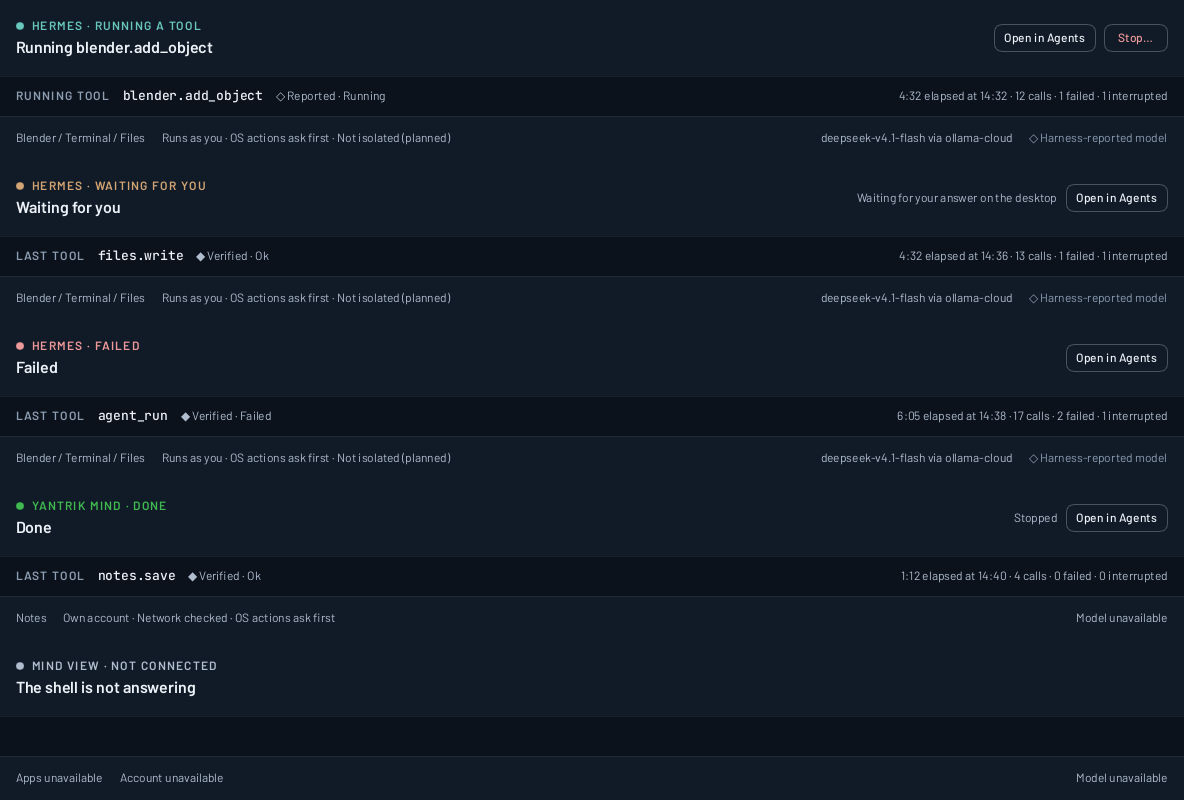
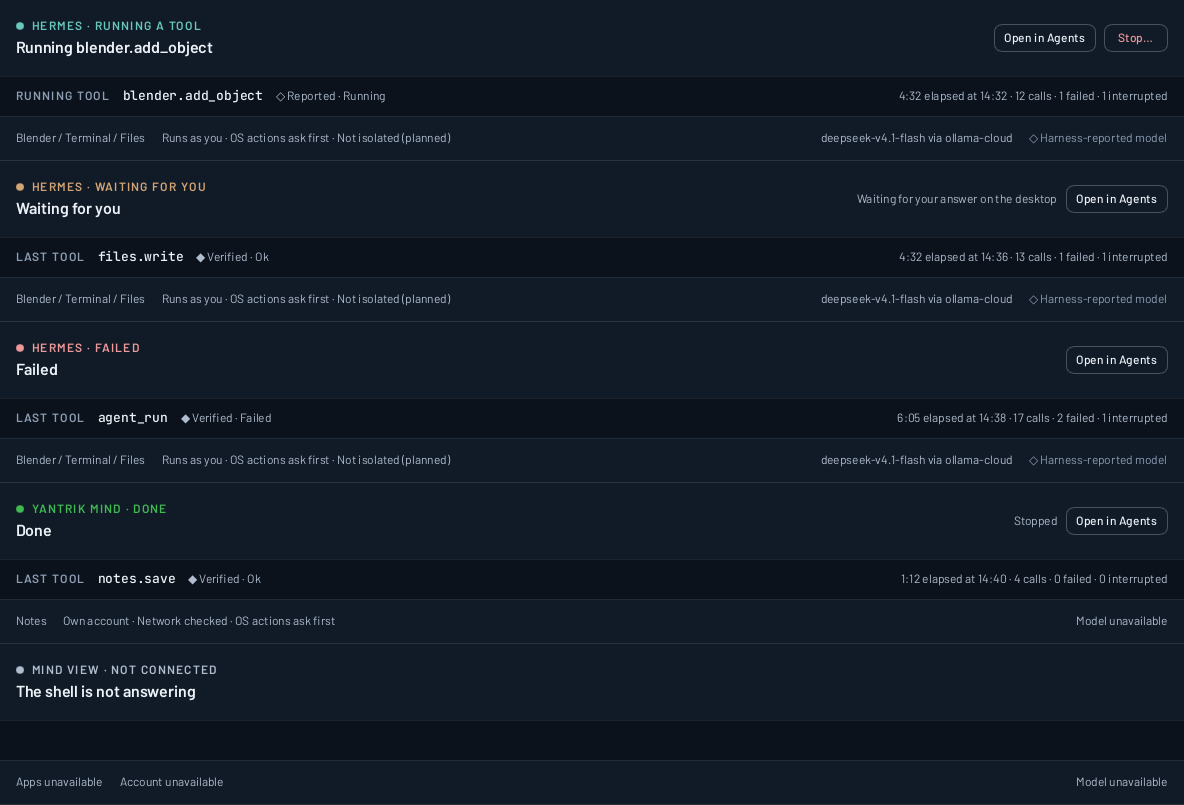
Delta review fixes: pinned labwc fetch, note timer, app id rule, cleanup
- The placement check unpacks exactly what trixie.lock names (file + sha256, https only);
  --update-lock is the one step that trusts the mirror, and its diff is what is reviewed.
- run.sh: stray NUL byte removed; cleanup kills only the desk found by its own runtime dir.
- The Agents-screen note lets go after 6 s (one-shot, re-armed by each press), so it can no
  longer hide "Waiting for your answer" for good.
- The rule matches app id yantrik-mind-desk as well as the title; the desk sets it (a platform
  is chosen first, as Slint takes the id only from one that exists). Measured on labwc 0.8.3:
  a wrong id fails the check, the right one passes at every size.
- Tests: 50 in the desk (rule identifier, app id set, note timer incl. re-arm, lock shape).
- Collage and still regenerated from the one-bar preview run.

diff --git a/tests/mind-desk-placement/fetch-trixie.py b/tests/mind-desk-placement/fetch-trixie.py
@@ -1,19 +1,27 @@
 #!/usr/bin/env python3
 """Unpack Debian 13 (trixie) labwc, grim and wlr-randr, with everything they need, into a prefix.
 
-The Mind desk's two bars are placed by labwc window rules (config/labwc-mind/rc.xml), and what a
-rule does depends on the labwc that reads it. The OS runs Debian 13's labwc 0.8.x, so the placement
+The Mind desk's bar is placed by a labwc window rule (config/labwc-mind/rc.xml), and what a rule
+does depends on the labwc that reads it. The OS runs Debian 13's labwc 0.8.x, so the placement
 check (run.sh) runs that one, not whatever a build machine happens to have. A build machine without
 root cannot install it, and its libc is not Debian 13's, so this unpacks the packages (no install)
 and run.sh starts labwc through the unpacked loader with the unpacked libraries.
 
-    fetch-trixie.py PREFIX [package ...]
+    fetch-trixie.py PREFIX                 unpack exactly what trixie.lock names
+    fetch-trixie.py --update-lock          rewrite trixie.lock from the mirror, for a reviewer to read
 
-It resolves `Depends` (first alternative, virtual packages through `Provides`) from the Debian
-mirror's package list, downloads each .deb, checks its sha256 against that list, and unpacks it
-with `dpkg -x`. Nothing outside PREFIX is touched. Packages that only matter on real hardware (the
-GPU drivers) are not followed: the check runs labwc on wlroots' headless backend with the pixman
-renderer.
+What is run is what a reviewer read. `trixie.lock`, committed beside this script, names every
+package by its file and sha256; the default mode downloads exactly those files over https and
+refuses any whose sha256 differs, so a mirror, a proxy or a network path cannot change what runs
+without changing a file in git. Nothing is resolved from an index when it unpacks.
+
+`--update-lock` is the only step that trusts the mirror's index. It reads Packages.xz over https,
+resolves `Depends` (first alternative, virtual packages through `Provides`), and writes the lock.
+Its diff is the thing to review. A package the mirror has dropped (a point release replaces the
+files) is a failed download, and the answer is to update the lock and read the diff.
+
+Packages that only matter on real hardware (the GPU drivers) are not followed: the check runs
+labwc on wlroots' headless backend with the pixman renderer. Nothing outside PREFIX is touched.
 """
 
 import hashlib
@@ -24,20 +32,25 @@ import subprocess
 import sys
 import urllib.request
 
-MIRROR = "http://deb.debian.org/debian"
+MIRROR = "https://deb.debian.org/debian"
 SUITE = "trixie"
+LOCK = os.path.join(os.path.dirname(os.path.abspath(__file__)), "trixie.lock")
 WANTED = ["labwc", "grim", "wlr-randr", "xkb-data", "fonts-dejavu-core"]
 # Not followed: real hardware's drivers and what only they need.
 SKIP = re.compile(r"^(libgl1-mesa-dri|libegl-mesa0|mesa-.*|libllvm.*|libgallium.*|libglx-mesa0|xserver-.*|libglapi-mesa)$")
 
 
+def fetch(url):
+    if not url.startswith("https://"):
+        sys.exit(f"refusing a download that is not https: {url}")
+    return urllib.request.urlopen(url, timeout=120).read()
+
+
 def index():
-    url = f"{MIRROR}/dists/{SUITE}/main/binary-amd64/Packages.xz"
-    raw = lzma.decompress(urllib.request.urlopen(url).read()).decode("utf-8", "replace")
+    raw = lzma.decompress(fetch(f"{MIRROR}/dists/{SUITE}/main/binary-amd64/Packages.xz")).decode("utf-8", "replace")
     packages = {}
     for block in raw.split("\n\n"):
-        fields = {}
-        key = None
+        fields, key = {}, None
         for line in block.split("\n"):
             if line.startswith((" ", "\t")) and key:
                 fields[key] += "\n" + line
@@ -67,31 +80,51 @@ def closure(packages, provides, roots):
                 continue
         seen[name] = packages[name]
         for dep in packages[name].get("Depends", "").split(","):
-            dep = dep.strip()
-            if not dep:
-                continue
-            first = dep.split("|")[0].strip()
+            first = dep.strip().split("|")[0].strip()
             first = re.sub(r"\s*\(.*?\)", "", first).split(":")[0].strip()
-            todo.append(first)
+            if first:
+                todo.append(first)
     return seen
 
 
-def main():
-    prefix = os.path.abspath(sys.argv[1])
-    extra = sys.argv[2:]
-    os.makedirs(prefix + "/debs", exist_ok=True)
+def update_lock():
     packages, provides = index()
-    chosen = closure(packages, provides, WANTED + extra)
-    print(f"{len(chosen)} packages", file=sys.stderr)
-    for name, f in sorted(chosen.items()):
-        deb = f"{prefix}/debs/{os.path.basename(f['Filename'])}"
-        if not os.path.exists(deb):
-            data = urllib.request.urlopen(f"{MIRROR}/{f['Filename']}").read()
-            if hashlib.sha256(data).hexdigest() != f["SHA256"]:
-                sys.exit(f"{name}: sha256 does not match the package list")
+    chosen = closure(packages, provides, WANTED)
+    with open(LOCK, "w", encoding="utf-8", newline="\n") as out:
+        out.write(f"# {SUITE} packages for tests/mind-desk-placement, by file and sha256. Written by\n")
+        out.write("# `fetch-trixie.py --update-lock`; its diff is what a reviewer reads. name filename sha256\n")
+        for name, f in sorted(chosen.items()):
+            out.write(f"{name} {f['Filename']} {f['SHA256']}\n")
+    print(f"{len(chosen)} packages written to {LOCK}; labwc {chosen['labwc']['Version']}", file=sys.stderr)
+
+
+def unpack(prefix):
+    entries = []
+    for line in open(LOCK, encoding="utf-8"):
+        if line.strip() and not line.startswith("#"):
+            name, filename, sha256 = line.split()
+            if not re.fullmatch(r"[0-9a-f]{64}", sha256) or ".." in filename or filename.startswith("/"):
+                sys.exit(f"{LOCK}: a line that is not a package: {line!r}")
+            entries.append((name, filename, sha256))
+    os.makedirs(prefix + "/debs", exist_ok=True)
+    for name, filename, sha256 in entries:
+        deb = f"{prefix}/debs/{os.path.basename(filename)}"
+        if not (os.path.exists(deb) and hashlib.sha256(open(deb, "rb").read()).hexdigest() == sha256):
+            data = fetch(f"{MIRROR}/{filename}")
+            if hashlib.sha256(data).hexdigest() != sha256:
+                sys.exit(f"{name}: what the mirror sent is not what trixie.lock names (sha256 differs); not unpacked")
             open(deb, "wb").write(data)
         subprocess.run(["dpkg", "-x", deb, prefix + "/root"], check=True)
-    print(f"labwc {chosen['labwc']['Version']}", file=sys.stderr)
+    print(f"{len(entries)} packages unpacked", file=sys.stderr)
+
+
+def main():
+    if sys.argv[1:] == ["--update-lock"]:
+        update_lock()
+    elif len(sys.argv) == 2 and not sys.argv[1].startswith("-"):
+        unpack(os.path.abspath(sys.argv[1]))
+    else:
+        sys.exit(__doc__)
 
 
 if __name__ == "__main__":

diff --git a/apps/mind-desk/src/tests/compositor.rs b/apps/mind-desk/src/tests/compositor.rs
@@ -4,7 +4,7 @@
 //! These read the file. Where labwc really puts the bar is not something a file can say, and is
 //! measured on pixels by `tests/mind-desk-placement/run.sh` against the labwc the OS runs.
 
-use crate::metrics::{BAR_HEIGHT, MARGIN_TOP, OVERLAP, TITLE};
+use crate::metrics::{APP_ID, BAR_HEIGHT, MARGIN_TOP, OVERLAP, TITLE};
 
 const RC: &str = include_str!("../../../../config/labwc-mind/rc.xml");
 
@@ -42,6 +42,8 @@ fn the_rule() -> String {
     let all = rules(&config());
     let mine: Vec<&String> = all.iter().filter(|r| attribute(r, "title").as_deref() == Some(TITLE)).collect();
     assert_eq!(mine.len(), 1, "one rule for the bar");
+    // A window that wants the bar's place has to set the app id as well as the title.
+    assert_eq!(attribute(mine[0], "identifier").as_deref(), Some(APP_ID), "matched by app id too");
     mine[0].clone()
 }
 
@@ -120,6 +122,10 @@ fn the_title_the_rule_matches_is_the_one_the_window_sets() {
     let ui = include_str!("../../ui/app.slint");
     assert!(ui.contains(&format!(r#"title: "{TITLE}";"#)), "ui/app.slint");
     assert_eq!(TITLE, "Yantrik Mind Desk");
+    // And the app id beside it is set before the window is made.
+    let lib = include_str!("../lib.rs");
+    assert!(lib.contains("slint::set_xdg_app_id(metrics::APP_ID)"), "the desk sets its app id");
+    assert_eq!(APP_ID, "yantrik-mind-desk");
     // And the rule is not the title of a second window that no longer exists.
     assert!(!RC.contains("Yantrik Mind Desk Top") && !RC.contains("Yantrik Mind Desk Bottom"));
 }
@@ -143,4 +149,21 @@ fn the_placement_check_is_in_the_tree_and_asks_for_the_bar_where_it_belongs() {
     assert!(run.contains("after-restart"), "and after the desk is started again");
     let measure = include_str!("../../../../tests/mind-desk-placement/measure.py");
     assert!(measure.contains("rows 0.."), "the bar is measured from row 0");
+}
+
+/// What the check runs is what was read: every package is named by file and sha256 in the lock,
+/// and the fetch is https only.
+#[test]
+fn the_labwc_the_check_runs_is_named_by_hash_and_fetched_over_https() {
+    let lock = include_str!("../../../../tests/mind-desk-placement/trixie.lock");
+    let lines: Vec<_> = lock.lines().filter(|l| !l.is_empty() && !l.starts_with('#')).collect();
+    assert!(lines.iter().any(|l| l.starts_with("labwc ")), "labwc is in the lock");
+    for l in &lines {
+        let f: Vec<_> = l.split(' ').collect();
+        assert_eq!(f.len(), 3, "{l}");
+        assert!(f[2].len() == 64 && f[2].bytes().all(|b| b.is_ascii_hexdigit()), "{l}");
+        assert!(!f[1].contains("..") && !f[1].starts_with('/'), "{l}");
+    }
+    let fetch = include_str!("../../../../tests/mind-desk-placement/fetch-trixie.py");
+    assert!(fetch.contains("https://deb.debian.org") && !fetch.contains("http://"), "https only");
 }

diff --git a/apps/mind-desk/src/tests/stopping.rs b/apps/mind-desk/src/tests/stopping.rs
@@ -186,3 +186,44 @@ fn the_agents_screen_being_held_for_a_card_is_said_while_a_stop_is_asked() {
     app.run(Command::Heard(Ok(with_stop(2, MindState::Idle, Some(StopStatus::Stopped)))));
     assert_eq!(app.ui(|ui| ui.get_stop_note()), "Stopped");
 }
+
+/// A line about the Agents screen is about the moment it was pressed. Nothing in a snapshot says a
+/// card that held the screen has been answered, so the line is let go on its own, after a few
+/// seconds, whatever the snapshots say, and "Waiting for your answer" is not hidden behind it
+/// for good.
+#[test]
+fn a_line_about_the_agents_screen_does_not_outstay_its_moment() {
+    use std::time::Duration;
+    let (app, shell) = start(working());
+    app.run_jobs();
+    shell.show_answers(Err(ServiceError::Refused {
+        code: -32000,
+        sentence: "`mind_desk_open_agents` was not run: an approval card is waiting for the person at this machine".into(),
+    }));
+    app.run(Command::AgentsAsked);
+    app.run_jobs();
+    assert_eq!(app.ui(|ui| ui.get_stop_note()), "An approval card is waiting on your desktop");
+    // The card is answered, and the stop's standing does not change: the snapshot is the same.
+    app.run(Command::Heard(Ok(snapshot(1, Some(hermes(MindState::RunningTool))))));
+    assert_eq!(app.ui(|ui| ui.get_stop_note()), "An approval card is waiting on your desktop", "not yet");
+    app.advance(Duration::from_secs(5));
+    assert_eq!(app.ui(|ui| ui.get_stop_note()), "An approval card is waiting on your desktop", "five seconds in");
+    app.advance(Duration::from_secs(2));
+    assert_eq!(app.ui(|ui| ui.get_stop_note()), "", "gone after six");
+
+    // A second press while the first line is up re-arms the timer: the first press's moment
+    // cannot clear the second's line early.
+    shell.show_answers(Err(ServiceError::Refused { code: -32000, sentence: "at most once every ten seconds".into() }));
+    shell.show_answers(Err(ServiceError::Refused { code: -32000, sentence: "at most once every ten seconds".into() }));
+    app.run(Command::AgentsAsked);
+    app.run_jobs();
+    app.run(Command::Heard(Ok(snapshot(1, Some(hermes(MindState::RunningTool))))));
+    app.advance(Duration::from_secs(4));
+    app.run(Command::AgentsAsked);
+    app.run_jobs();
+    app.run(Command::Heard(Ok(snapshot(1, Some(hermes(MindState::RunningTool))))));
+    app.advance(Duration::from_secs(4));
+    assert_eq!(app.ui(|ui| ui.get_stop_note()), "Agents was opened a moment ago", "eight seconds in, four after the last press");
+    app.advance(Duration::from_secs(3));
+    assert_eq!(app.ui(|ui| ui.get_stop_note()), "");
+}

diff --git a/apps/mind-desk/src/update.rs b/apps/mind-desk/src/update.rs
@@ -12,7 +12,7 @@ use yantrik_app::Refused;
 use yantrik_ipc_contracts::mind_desk::{DeskSnapshot, StopStatus};
 use yantrik_services::ServiceError;
 
-use crate::model::{Command, Link, Model, Stop, ASK_AGAIN, QUICK, RETRY_FROM, RETRY_UP_TO, SLOW};
+use crate::model::{Command, Link, Model, Stop, ASK_AGAIN, NOTE_FOR, NOTE_GONE, QUICK, RETRY_FROM, RETRY_UP_TO, SLOW};
 use crate::MindDesk;
 
 pub fn update(m: &mut Model, command: Command, fx: &mut Effects<MindDesk>) -> Result<(), Refused> {
@@ -55,7 +55,11 @@ pub fn update(m: &mut Model, command: Command, fx: &mut Effects<MindDesk>) -> Re
             fx.spawn(move |_| Command::AgentsAnswered(desk.open_agents()));
         }
         Command::AgentsAnswered(Ok(())) => fx.unchanged(),
-        Command::AgentsAnswered(Err(why)) => m.note = agents_failed(&why).to_string(),
+        Command::AgentsAnswered(Err(why)) => {
+            m.note = agents_failed(&why).to_string();
+            fx.after(NOTE_GONE, NOTE_FOR, Command::NoteGone);
+        }
+        Command::NoteGone => m.note.clear(),
         Command::CloseAsked => fx.unchanged(),
     }
     Ok(())

diff --git a/apps/mind-desk/src/model.rs b/apps/mind-desk/src/model.rs
@@ -24,6 +24,12 @@ pub const SLOW: Duration = Duration::from_secs(5);
 /// The one timer: the next ask of a shell that did not answer, or answered too quickly.
 pub const ASK_AGAIN: TimerId = TimerId("mind-desk.ask-again");
 
+/// A line about the Agents screen not opening is about the moment it was pressed, and is let go
+/// after this long: a card that held the screen may be answered, and nothing in a snapshot says so.
+/// A one-shot, armed by the press and by nothing else.
+pub const NOTE_GONE: TimerId = TimerId("mind-desk.note-gone");
+pub const NOTE_FOR: Duration = Duration::from_secs(6);
+
 /// How the desk stands with the shell.
 #[derive(Clone, Copy, Debug, PartialEq, Eq)]
 pub enum Link {
@@ -81,6 +87,8 @@ pub enum Command {
     AgentsAsked,
     /// What the shell said to that.
     AgentsAnswered(Result<(), ServiceError>),
+    /// The line about the Agents screen has been said long enough.
+    NoteGone,
     /// A window was asked to close. It is not an app a person closes: nothing happens.
     CloseAsked,
 }

diff --git a/apps/mind-desk/src/lib.rs b/apps/mind-desk/src/lib.rs
@@ -71,6 +71,15 @@ impl App for MindDesk {
     const ON_MINDS_DISPLAY: bool = true;
 
     fn model(boot: &Boot<()>) -> Result<Model, Startup> {
+        // The app id the compositor's rule matches beside the title, before the window is made.
+        // Slint takes it only from a platform that exists, and none does before the first window:
+        // so the default one is chosen here (the same one the window would have chosen).
+        if slint::set_xdg_app_id(metrics::APP_ID).is_err() {
+            let chosen = slint::BackendSelector::new().select();
+            if let Err(e) = chosen.map_err(|e| e.to_string()).and_then(|()| slint::set_xdg_app_id(metrics::APP_ID).map_err(|e| e.to_string())) {
+                tracing::warn!(error = %e, "the desk could not set its app id");
+            }
+        }
         Ok(Model {
             desk: boot.services.mind_desk.clone(),
             link: Link::Connecting,

diff --git a/apps/mind-desk/src/metrics.rs b/apps/mind-desk/src/metrics.rs
@@ -37,5 +37,7 @@ pub const MARGIN_TOP: u32 = HEADER_HEIGHT + STRIP_HEIGHT + FOOTER_HEIGHT;
 /// The window's height: the margin and the hairline over the apps' first row.
 pub const BAR_HEIGHT: u32 = MARGIN_TOP + OVERLAP;
 
-/// The title the compositor's window rule matches (`ui/app.slint` sets it).
+/// The title the compositor's window rule matches (`ui/app.slint` sets it), and the app id beside
+/// it (`MindDesk::model` sets it): a window that wants the bar's place has to set both.
 pub const TITLE: &str = "Yantrik Mind Desk";
+pub const APP_ID: &str = "yantrik-mind-desk";
